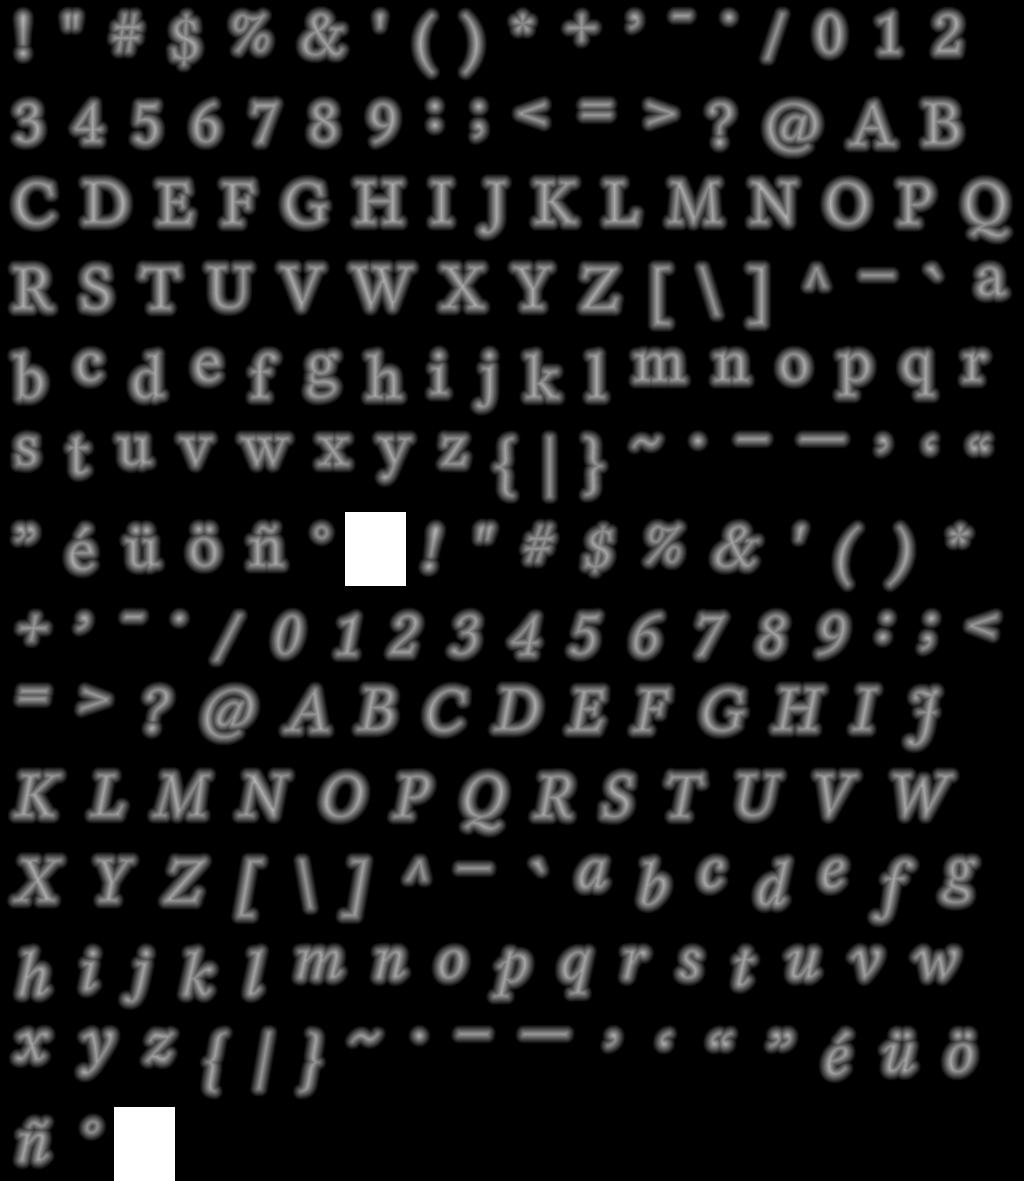
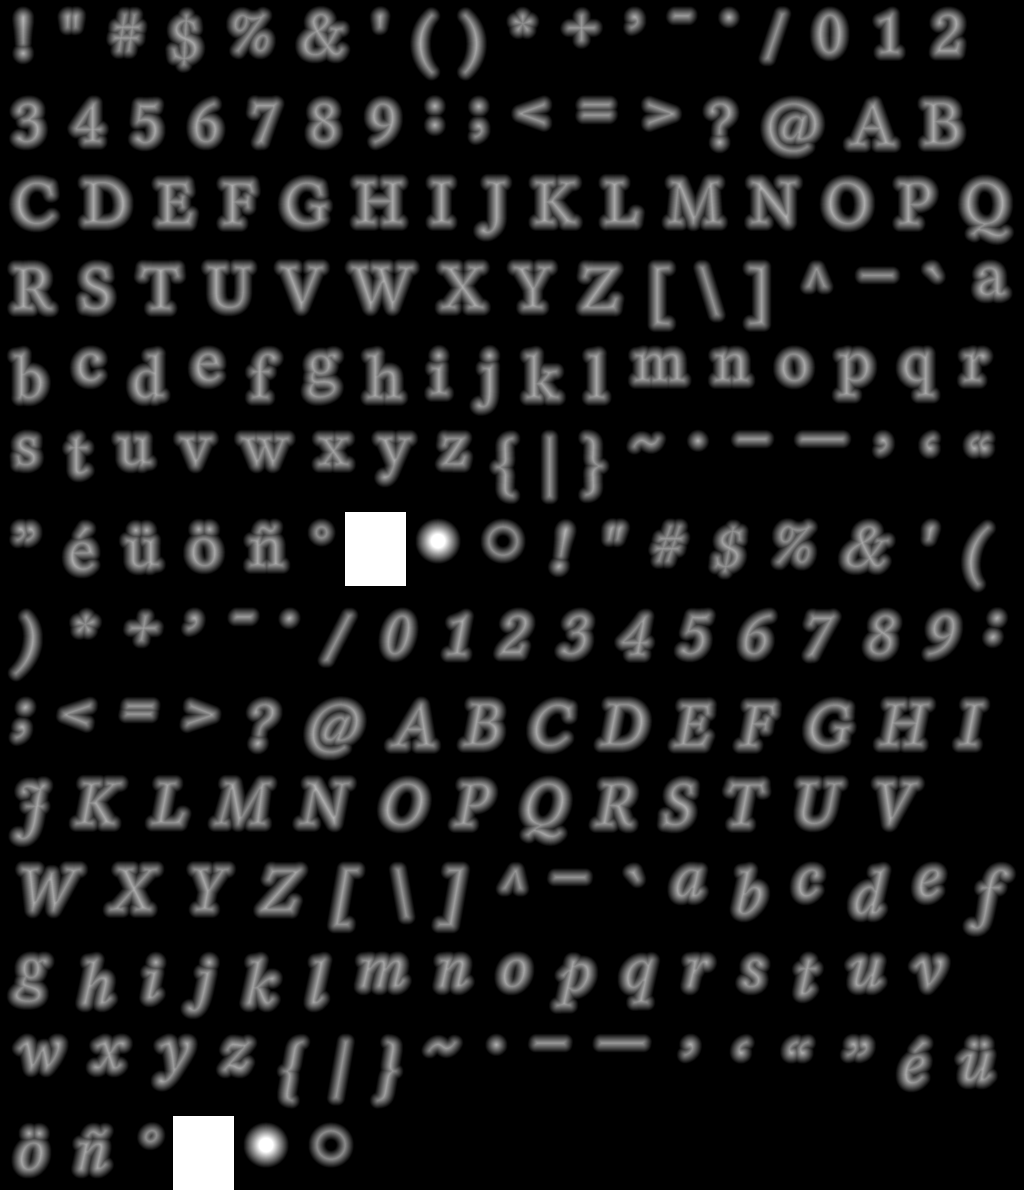
Adrift, Visual R4: the glitter quieted, the land's lights alive by night, the year's rule and lamp under the date (painting-company row 196) [skip ci]
From the first phone: the water's glitter drew the eye from the floats by night, so it is a trace
by night and a little less by day, and the land's lights live instead: the regions' slow shimmer,
a finer one over the suburbs, the whole field breathing, a core catching now and then, by the drawn
motion's clock, never a blink. The date's band now says what it is: a hairline the band's width
under the date with the day's place on it, an amber lamp while the year runs and a ring of ink
while it rests (LookState.date_running, year_day, filled in look_state as the procedure allows).
A plan plays the lights over time; CRITICS.md judges the round at device pixels.

Claude-Session: https://claude.ai/code/session_01BAtsk9kaoqfcFmaDHtS7UL

diff --git a/adrift/crates/adrift-core/src/look/words.rs b/adrift/crates/adrift-core/src/look/words.rs
@@ -261,7 +261,7 @@ impl Words {
     /// on a `width` x `height` point screen, or over the globe when the disc fills it; the note (13 pt
     /// italic) under the date; the credits (10 pt) along the screen's foot. Each in the palette's
     /// inks on a halo of what is under it: the paper below the disc, the sea over it (palette.json).
-    pub fn prepare_foot(&mut self, gpu: &Gpu, date: &str, note: &str, credits: &str, width: f32, height: f32, reading: f32, disc: [f32; 3], night: bool, labels: &[GlyphInstance]) {
+    pub fn prepare_foot(&mut self, gpu: &Gpu, date: &str, note: &str, credits: &str, width: f32, height: f32, reading: f32, disc: [f32; 3], night: bool, running: bool, year_day: f32, labels: &[GlyphInstance]) {
         let under = disc[1] + disc[2] + 40.0 * reading;
         let foot = under.min(height - 72.0 * reading);
         let bottom = height - 12.0 * reading;
@@ -273,12 +273,27 @@ impl Words {
         let halo_for = |baseline: f32| if baseline - 14.0 * reading < disc[1] + disc[2] { sea_halo } else { paper_halo };
         let cx = width / 2.0;
         let date_line = Line { text: date, style: Style::Regular, size: 17.0 * reading, ink: date_ink, tracking: 0.0 };
-        let dw = self.face.width(&date_line) + 24.0 * reading;
-        let dh = 17.0 * reading * 1.3 + 12.0 * reading;
+        let dw = (self.face.width(&date_line) + 24.0 * reading).max(150.0 * reading);
+        let dh = 17.0 * reading * 1.3 + 12.0 * reading + 10.0 * reading;
         self.date_bounds = Some([cx - dw / 2.0, foot - 17.0 * reading * 0.95 - 6.0 * reading, dw, dh]);
         let mut glyphs = self.face.layout(&date_line, cx, foot, halo_for(foot));
+        // the year's rule under the date, a hairline the band's width, and the day's marker on it: a
+        // lamp of amber while the date runs, a ring of ink while it rests; the one drawn thing that
+        // says it can be moved (a drag along it scrubs, a tap rests or runs it: Motion's), without a
+        // control that points or waits
+        let rule_y = foot + 8.0 * reading;
+        let rule_w = dw - 24.0 * reading;
+        let rule_ink = if night { [0.722, 0.776, 0.831, 0.55] } else { [0.243, 0.298, 0.353, 0.45] };
+        if let Some(b) = self.face.faces.get("regular").and_then(|f| f.glyphs.get("\u{2588}")) {
+            let uv = [(b.x as f32 + 2.0) / self.face.width, (b.y as f32 + 2.0) / self.face.height, (b.w as f32 - 4.0) / self.face.width, (b.h as f32 - 4.0) / self.face.height];
+            glyphs.push(GlyphInstance { rect: [cx - rule_w / 2.0, rule_y - 0.35 * reading, rule_w, 0.7 * reading], uv, ink: rule_ink, halo: [0.0; 4], anchor: [0.0; 4] });
+        }
+        let mx = cx - rule_w / 2.0 + rule_w * year_day.clamp(0.0, 1.0);
+        let (mark, mark_ink) = if running { ("\u{25cf}", if night { [0.965, 0.682, 0.227, 1.0] } else { [0.957, 0.647, 0.165, 1.0] }) } else { ("\u{25cb}", if night { [0.894, 0.925, 0.957, 1.0] } else { [0.149, 0.188, 0.227, 1.0] }) };
+        let marker = Line { text: mark, style: Style::Regular, size: 9.0 * reading, ink: mark_ink, tracking: 0.0 };
+        glyphs.extend(self.face.layout(&marker, mx, rule_y + 3.2 * reading, [0.0; 4]));   // (a mark, not a word: no halo)
         if !note.is_empty() {
-            let y = foot + 19.0 * reading;
+            let y = foot + 24.0 * reading;
             glyphs.extend(self.face.layout(&Line { text: note, style: Style::Italic, size: 13.0 * reading, ink: note_ink, tracking: 0.0 }, cx, y, halo_for(y)));
         }
         // the credits: one line along the foot, or two when the line would overrun the screen (wrapped at

diff --git a/adrift/crates/adrift-core/src/look/mod.rs b/adrift/crates/adrift-core/src/look/mod.rs
@@ -211,6 +211,10 @@ pub struct LookState {
     pub date: String,
     /// A note under it, in italic ("a typical year, by the drifters' record"); empty for none.
     pub note: String,
+    /// The date runs (its marker is lit, amber) or rests (the marker a ring of ink).
+    pub date_running: bool,
+    /// How far through the year the date is, 0..1: the marker's place on the year's rule under the date.
+    pub year_day: f32,
     /// The credits owed, one line (Truth's SOURCES.md says whose).
     pub credits: String,
     /// The credits in full (`sea::CREDITS`), shown on a page over the globe while `credits_open`.
@@ -293,7 +297,7 @@ impl Look {
         if state.credits_open {
             labels.extend(self.words.credits_page(&state.credits_full, width, height, reading, n));
         }
-        self.words.prepare_foot(gpu, &state.date, &state.note, &state.credits, width, height, reading, disc, n, &labels);
+        self.words.prepare_foot(gpu, &state.date, &state.note, &state.credits, width, height, reading, disc, n, state.date_running, state.year_day, &labels);
     }
 
     /// Draws the marks over the sea; `maybes` is the held float's buffer (`gpu::Maybes`).

diff --git a/tools/adrift/glyphs.py b/tools/adrift/glyphs.py
@@ -25,7 +25,7 @@ FONTS = {'regular': ROOT / 'Globe' / 'fonts' / 'LibertinusSerif-Regular.otf', 'i
 OUT = ROOT / 'adrift' / 'crates' / 'adrift-core' / 'src' / 'look' / 'type'
 EM, SPREAD, PAD = 64, 8, 14
 SS = 4                         # rasterised at SS times the em and thresholded there, so hairlines survive
-CHARS = [chr(c) for c in range(32, 127)] + ['·', '–', '—', '’', '‘', '“', '”', 'é', 'ü', 'ö', 'ñ', '°', '█']   # (the block: a solid cell the look draws pages with)
+CHARS = [chr(c) for c in range(32, 127)] + ['·', '–', '—', '’', '‘', '“', '”', 'é', 'ü', 'ö', 'ñ', '°', '█', '●', '○']   # (the block: a solid cell the look draws pages with; the marks: the date's marker)
 INF = 1e12
 
 

diff --git a/adrift/crates/adrift-core/src/app.rs b/adrift/crates/adrift-core/src/app.rs
@@ -789,6 +789,8 @@ impl App {
             night: self.night,
             date: format!("{} {}", day, MONTHS[(month - 1) as usize]),
             note: if self.clock.running { "a typical year, by the drifters’ record".to_string() } else { "held".to_string() },
+            date_running: self.clock.running,
+            year_day: (self.clock.year_day() / 365.25) as f32,
             credits: crate::sea::CREDIT_LINE.to_string(),
             credits_full: crate::sea::CREDITS.iter().map(|s| s.to_string()).collect(),
             credits_open: self.credits_open,

diff --git a/adrift/crates/adrift-core/src/look/CRITICS.md b/adrift/crates/adrift-core/src/look/CRITICS.md
@@ -246,3 +246,37 @@ a dusting with a shape. The dashed rim says 'a guess' without a word; the hollow
 see where a float has actually moved on a guessed sea. The credits page is a page: Libertinus on
 paper, the sentences whole, the night's the same page in reverse; nothing on it to press, which is
 the point." Verdict: the three pass; the hollow bead unseen until a guessed sea moves a float.
+
+## R4 (October 31, 2026): the first device verdict
+
+The owner's phone said: the night reads, the water's glitter draws the eye from the floats where
+living lights on the land would not, the date control isn't obvious the first time. Judged on the
+build at 5cd8398 with this round's changes (`studies/r4-lights-alive-night-phone.png`, four frames
+of the eastern seaboard by night 0.33 s and 2 s apart; `r4-night-lights-phone.png`;
+`r4-date-band-running-then-held-phone.png`; `r4-date-band-night-phone.png`).
+
+**The hater, an OLED owner who hates anything that blinks.**
+
+- *The glitter.* "By night it is a trace now (an eighth of what it was), by day two thirds; the
+  lamps are the brightest thing on the water again. Good riddance, mostly: by day I'd keep a little
+  more, it was the sea's one luxury." Verdict: passes by night; by day a knob.
+- *The lights alive.* "Alive, not blinking: the regions breathe, the suburbs shift a little every
+  third of a second (two grey levels on average over the lit pixels, six over three seconds, never
+  more than twenty in one step), and now and then a core catches. Nothing goes on-off. On the
+  phone the stage redraws thirty times a second while the date runs, so this will move; when the
+  date is held the lights hold too, which is the rule's own consistency." Verdict: passes; judge
+  the pace on the device, since lavapipe can't show me motion.
+- *The date band.* "A hairline the band's width under the date, with the day's place on it: an
+  amber lamp while the year runs, a ring of ink while it rests, and 'held' under it. It says
+  'this is a year and you are here' without a slider's handle, and the amber makes the running
+  one look like the floats' own light. A hand that has moved a float will try to move the lamp;
+  Motion's drag along it will answer." Verdict: passes; the first version had the marker on a
+  square of halo over the land, which was a sticker; gone.
+
+**Holt**: "The lights live without asking anything of me, and the date's lamp tells me the year
+is moving without a button; stopping it leaves a ring where the lamp was, so I know what I did.
+Nothing marks, nothing points, nothing waits."
+
+**Open for Motion's demand**: what a float lifting under a rest should look like, and what a
+clear-all and a home should look like as they happen (every float taken out in plain sight, the
+globe's flight home), drawn the moment Motion says which gesture reaches them.
